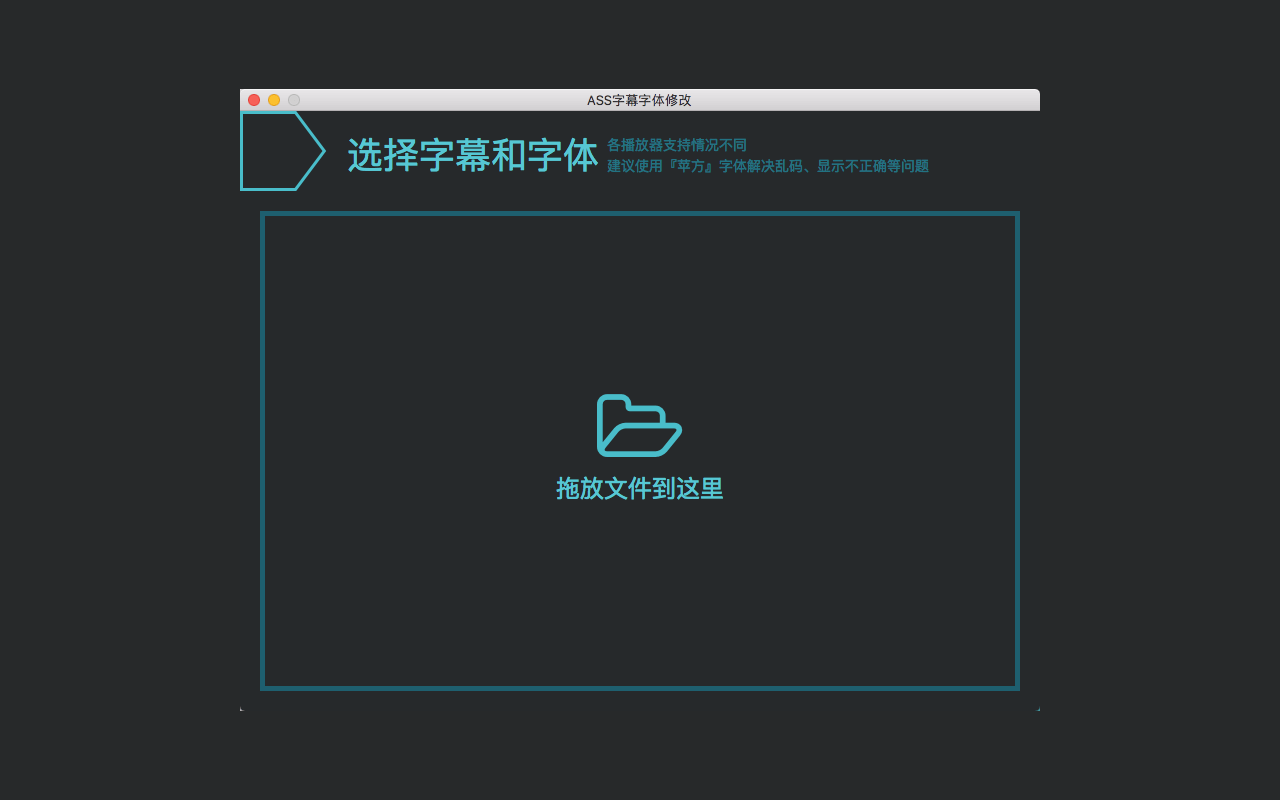
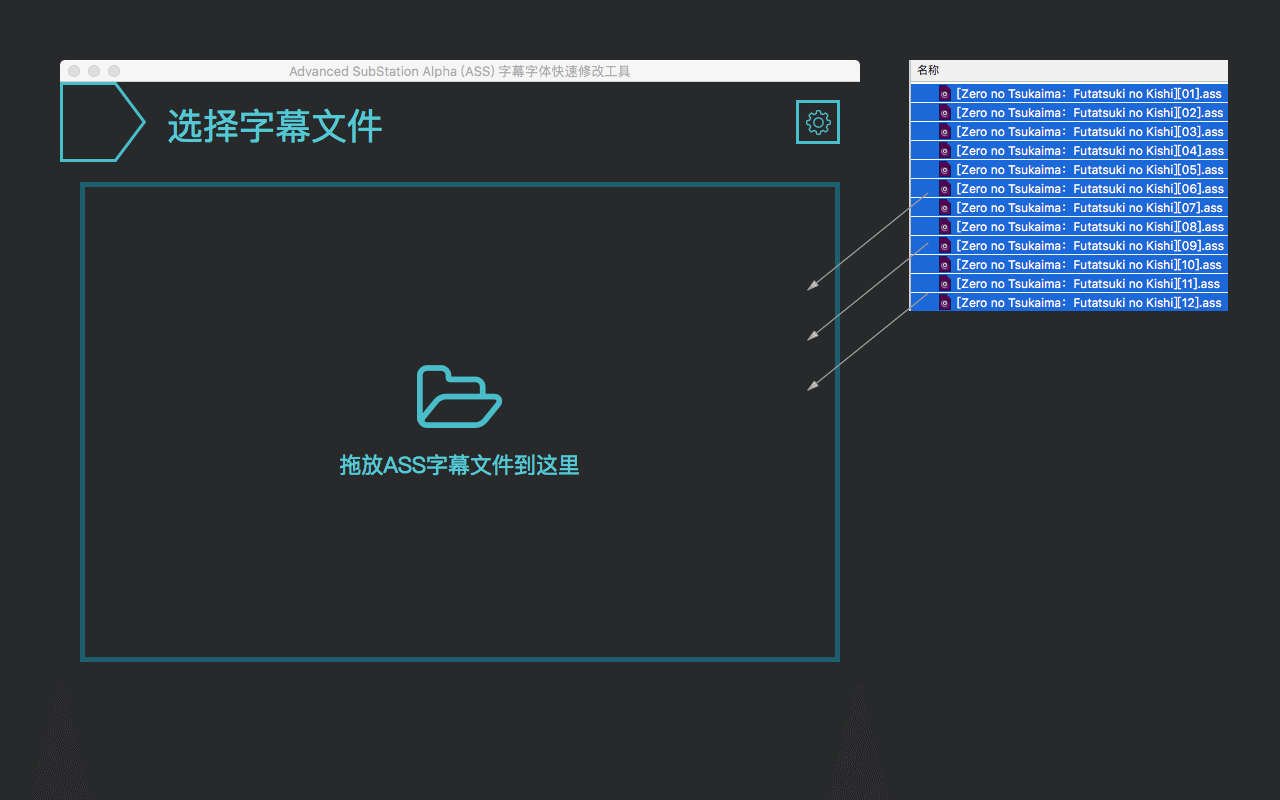
ASS字幕修改工具：更新图文

Changed region(s): [[0.0312, 0.0625, 0.9688, 0.875], [0.25, 0.4375, 0.5625, 0.625]]

diff --git a/ass-subtitle-fixer/index.html b/ass-subtitle-fixer/index.html
@@ -6,7 +6,7 @@
 -->
 <html>
 <head>
-    <title>ASS字幕字体修改</title>
+    <title>Advanced SubStation Alpha (ASS) 字幕字体快速修改工具</title>
     <meta charset="utf-8"/>
     <meta name="viewport" content="width=device-width, initial-scale=1"/>
     <link rel="stylesheet" href="assets/css/main.css"/>
@@ -19,9 +19,9 @@
     <!-- Header -->
     <header id="header">
         <span class="avatar"><img src="images/icon.png" alt=""/></span>
-        <h1><strong>ASS字幕字体修改</strong> for MacOS </h1>
+        <h1><strong>Advanced SubStation Alpha (ASS) 字幕字体快速修改工具</strong> for MacOS </h1>
         <div>
-            喜欢看高清+外挂ass字幕, 但无奈...<br/>
+            喜欢看高清+外挂ASS字幕, 但无奈...<br/>
             播放器乱码? 显示异常? 字体或字号不满意?<br/>
             <br/>
             幸幸苦苦搜论坛, 发现字幕文件可以当文本文件编辑, 然而...<br/>
@@ -29,7 +29,7 @@
             <br/>
             受够了...<br/>
             <br/>
-            使用 <strong>ASS字幕字体修改</strong> 工具, 拖放文件, 一键修改, 批量处理, 从此妈妈再也不担心我外挂ass字幕看番不顺心了, yeah!<br/>
+            使用 <strong>Advanced SubStation Alpha (ASS) 字幕字体快速修改工具</strong> 工具, 拖放文件, 一键修改, 批量处理, 从此妈妈再也不担心我外挂ASS字幕看番不顺心了, yeah!<br/>
             <br/>
             <br/>
         </div>
